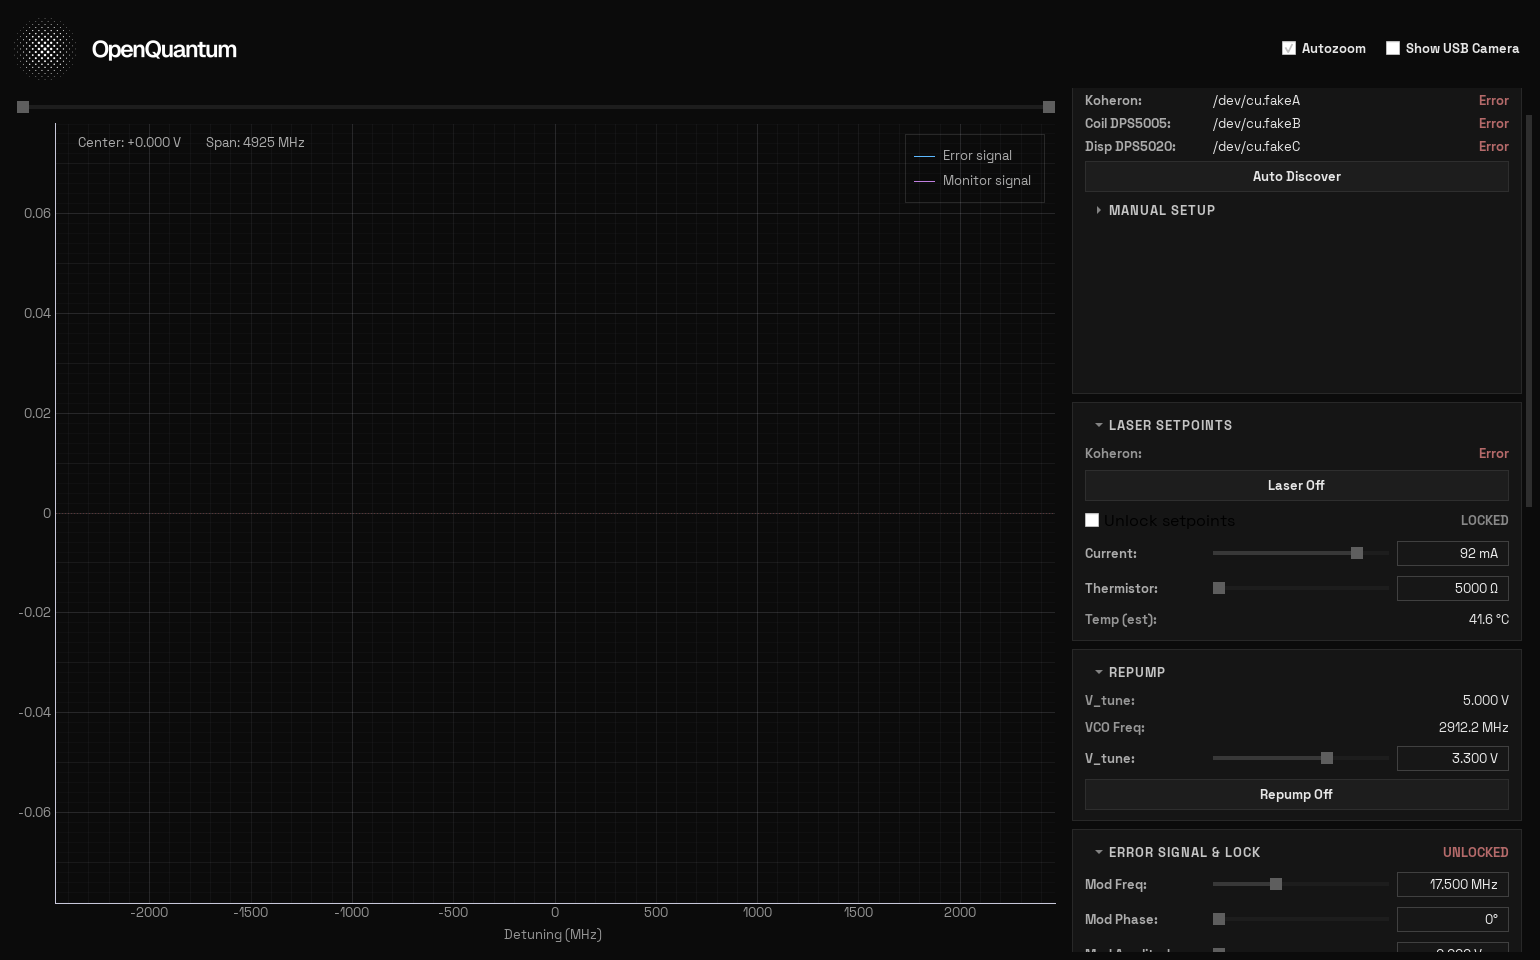
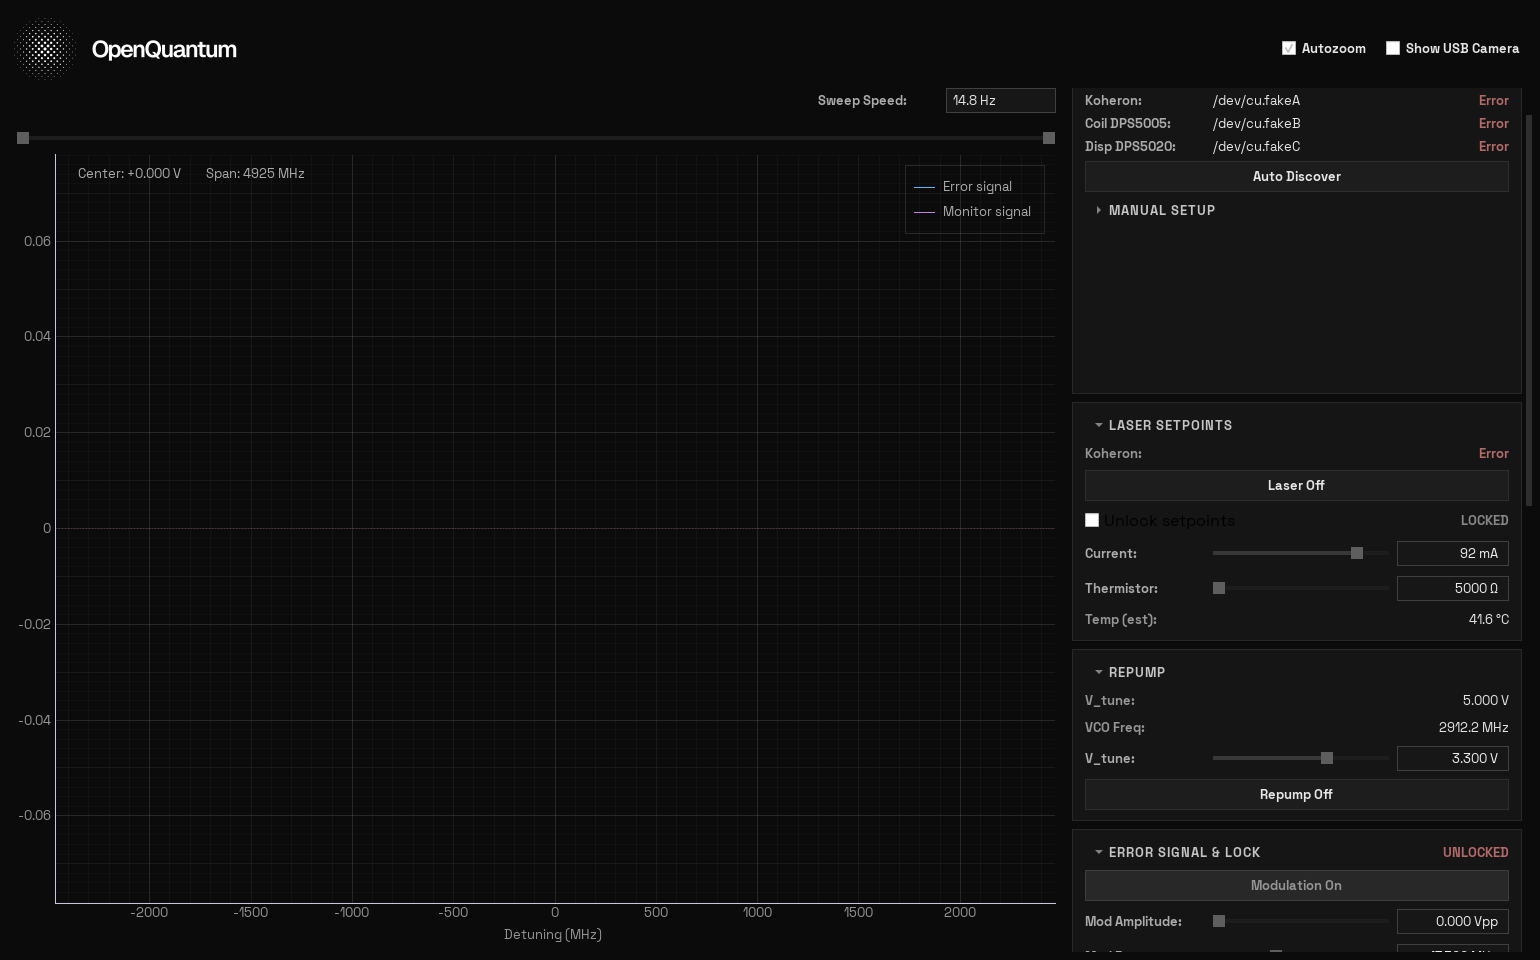
Restructure Error Signal & Lock; move sweep speed to the plot
Card order is now: modulation on/off, amplitude, frequency, phase,
filters, lock state, Lock Laser, then Set PID and Measure Lock PSD.

Linien has no separate modulation enable, so off drives the amplitude to
zero and greys out the three modulation rows; the slider keeps its value
for when it is switched back on. The state persists. Edits go read-only
rather than disabled -- disabling them segfaults Qt on teardown.

Sweep speed moves out of the card to sit directly above the sweep slider
it controls.

The filters' "Read from Device" button is gone; the filters are still
read automatically when Linien connects.

diff --git a/mot_control.py b/mot_control.py
@@ -1165,6 +1165,35 @@ class OpenQuantumControlsWindow(QtWidgets.QMainWindow):
         normal_layout.setContentsMargins(0, 0, 0, 0)
         normal_layout.setSpacing(6)
 
+        # Sweep speed sits with the sweep slider it belongs to, directly
+        # above the plot, rather than in the lock card.
+        sweep_row = QtWidgets.QHBoxLayout()
+        sweep_row.setContentsMargins(20, 0, 8, 0)
+        sweep_row.setSpacing(8)
+        sweep_row.addStretch()
+        sweep_row.addWidget(self._small_label("Sweep Speed:"))
+        self.sweep_speed_combo = QtWidgets.QComboBox()
+        _style_combo(self.sweep_speed_combo)
+        self.sweep_speed_combo.setFixedWidth(110)
+        for value, label in [
+            (0, "3800 Hz"), (1, "1900 Hz"), (2, "950 Hz"), (3, "475 Hz"),
+            (4, "237.5 Hz"), (5, "118.75 Hz"), (6, "59.4 Hz"), (7, "29.7 Hz"),
+            (8, "14.8 Hz"), (9, "7.4 Hz"), (10, "3.7 Hz"), (11, "1.86 Hz"),
+            (12, "0.93 Hz"), (13, "0.46 Hz"), (14, "0.23 Hz"), (15, "0.116 Hz"),
+        ]:
+            self.sweep_speed_combo.addItem(label, value)
+        self.sweep_speed_combo.setCurrentIndex(
+            self._int_setting("linien/sweep_speed_index", 8, 0, 15)
+        )
+        self.sweep_speed_combo.currentIndexChanged.connect(self._on_sweep_speed)
+        sweep_row.addWidget(self.sweep_speed_combo)
+        self._tip(
+            "Linien sweep repetition rate. Slower sweeps show narrower\n"
+            "features; faster sweeps update the trace more often.",
+            self.sweep_speed_combo,
+        )
+        normal_layout.addLayout(sweep_row)
+
         self.main_splitter = QtWidgets.QSplitter(QtCore.Qt.Vertical)
         self.main_splitter.setChildrenCollapsible(False)
         self.main_splitter.setStyleSheet("""
@@ -1679,6 +1708,40 @@ class OpenQuantumControlsWindow(QtWidgets.QMainWindow):
         self.lock_card = card
         layout = card.content_layout
 
+        # Modulation master switch. Linien has no separate enable, so off
+        # means amplitude 0 -- the slider keeps its value for when it is
+        # switched back on.
+        self.mod_enable_btn = QtWidgets.QPushButton("Modulation On")
+        self.mod_enable_btn.setCheckable(True)
+        self.mod_enable_btn.setCursor(QtCore.Qt.PointingHandCursor)
+        layout.addWidget(self.mod_enable_btn)
+        self._tip(
+            "Turn the current dither on or off. Off drives the amplitude\n"
+            "to zero and greys out the modulation controls.",
+            self.mod_enable_btn,
+        )
+
+        # Stored and sent in mV; shown in volts peak-to-peak, which is how
+        # the modulation depth is specified. 1 mV of slider resolution.
+        self.mod_strength_slider, self.mod_strength_edit = add_slider_row(
+            layout,
+            "Mod Amplitude:",
+            0,
+            1000,
+            self._int_setting("linien/mod_strength_mv", 0, 0, 1000),
+            single=1,
+            page=50,
+            suffix=" Vpp",
+            decimals=3,
+            scale=1000.0,
+        )
+        self.mod_strength_slider.valueChanged.connect(self._on_mod_strength)
+        self._tip(
+            "Modulation amplitude driving the current dither, 0-1 Vp-p.",
+            self.mod_strength_slider,
+            self.mod_strength_edit,
+        )
+
         self.mod_freq_slider, self.mod_freq_edit = add_slider_row(
             layout,
             "Mod Freq:",
@@ -1707,7 +1770,7 @@ class OpenQuantumControlsWindow(QtWidgets.QMainWindow):
             self._int_setting("linien/mod_phase_deg", 0, 0, 360),
             single=1,
             page=10,
-            suffix="\N{DEGREE SIGN}",
+            suffix="°",
         )
         self.mod_phase_slider.valueChanged.connect(self._on_mod_phase)
         self._tip(
@@ -1716,68 +1779,18 @@ class OpenQuantumControlsWindow(QtWidgets.QMainWindow):
             self.mod_phase_edit,
         )
 
-        # Stored and sent in mV; shown in volts peak-to-peak, which is how
-        # the modulation depth is specified. 1 mV of slider resolution.
-        self.mod_strength_slider, self.mod_strength_edit = add_slider_row(
-            layout,
-            "Mod Amplitude:",
-            0,
-            1000,
-            self._int_setting("linien/mod_strength_mv", 0, 0, 1000),
-            single=1,
-            page=50,
-            suffix=" Vpp",
-            decimals=3,
-            scale=1000.0,
+        self.mod_enable_btn.toggled.connect(self._on_mod_enabled)
+        self.mod_enable_btn.setChecked(
+            self._bool_setting("linien/mod_enabled", True)
         )
-        self.mod_strength_slider.valueChanged.connect(self._on_mod_strength)
-        self._tip(
-            "Modulation amplitude driving the current dither, 0-1 Vp-p.\n"
-            "0 disables the dither (no error signal).",
-            self.mod_strength_slider,
-            self.mod_strength_edit,
-        )
+        self._apply_mod_enabled(self.mod_enable_btn.isChecked())
 
-        speed_row = QtWidgets.QHBoxLayout()
-        speed_row.setSpacing(8)
-        speed_row.addWidget(self._small_label("Sweep Speed:"))
-        self.sweep_speed_combo = QtWidgets.QComboBox()
-        _style_combo(self.sweep_speed_combo)
-        for value, label in [
-            (0, "3800 Hz"),
-            (1, "1900 Hz"),
-            (2, "950 Hz"),
-            (3, "475 Hz"),
-            (4, "237.5 Hz"),
-            (5, "118.75 Hz"),
-            (6, "59.4 Hz"),
-            (7, "29.7 Hz"),
-            (8, "14.8 Hz"),
-            (9, "7.4 Hz"),
-            (10, "3.7 Hz"),
-            (11, "1.86 Hz"),
-            (12, "0.93 Hz"),
-            (13, "0.46 Hz"),
-            (14, "0.23 Hz"),
-            (15, "0.116 Hz"),
-        ]:
-            self.sweep_speed_combo.addItem(label, value)
-        self.sweep_speed_combo.setCurrentIndex(
-            self._int_setting("linien/sweep_speed_index", 8, 0, 15)
-        )
-        self.sweep_speed_combo.currentIndexChanged.connect(self._on_sweep_speed)
-        speed_row.addWidget(self.sweep_speed_combo, stretch=1)
-        layout.addLayout(speed_row)
-        self._tip(
-            "Linien sweep repetition rate. Slower sweeps show narrower\n"
-            "features; faster sweeps update the trace more often.",
-            self.sweep_speed_combo,
-        )
+        self._add_filter_section(layout)
 
         self.lock_readout = add_readout_row(layout, "Laser:", "Unlocked")
         self._tip(
-            "Lock state reported by Linien. Use the plot's Lock Laser\n"
-            "button after selecting a lock region on the trace.",
+            "Lock state reported by Linien. Lock after selecting a region\n"
+            "on the error signal trace.",
             self.lock_readout,
             help_cursor=True,
         )
@@ -1812,8 +1825,37 @@ class OpenQuantumControlsWindow(QtWidgets.QMainWindow):
             self.psd_mode_btn,
         )
         layout.addLayout(lock_button_row)
-        self._add_filter_section(layout)
         parent.addWidget(card)
+
+    def _apply_mod_enabled(self, on):
+        """Grey out the modulation controls when the dither is off."""
+        self.mod_enable_btn.setText(
+            "Modulation On" if on else "Modulation Off"
+        )
+        for slider in (
+            self.mod_strength_slider,
+            self.mod_freq_slider,
+            self.mod_phase_slider,
+        ):
+            slider.setEnabled(on)
+        # Read-only rather than disabled: disabling these edits segfaults
+        # Qt on teardown, and the value should stay legible either way.
+        for edit in (
+            self.mod_strength_edit,
+            self.mod_freq_edit,
+            self.mod_phase_edit,
+        ):
+            edit.setReadOnly(not on)
+
+    def _on_mod_enabled(self, on):
+        self._apply_mod_enabled(on)
+        self._settings.setValue("linien/mod_enabled", bool(on))
+        self._event_log.log("setpoint", name="mod_enabled", value=bool(on))
+        worker = self._get_lock_worker()
+        if worker is not None:
+            worker.set_modulation_amplitude(
+                self.mod_strength_slider.value() if on else 0
+            )
 
     def _add_laser_card(self, parent):
         card = CollapsibleCard("Laser Setpoints", collapsed=False)
